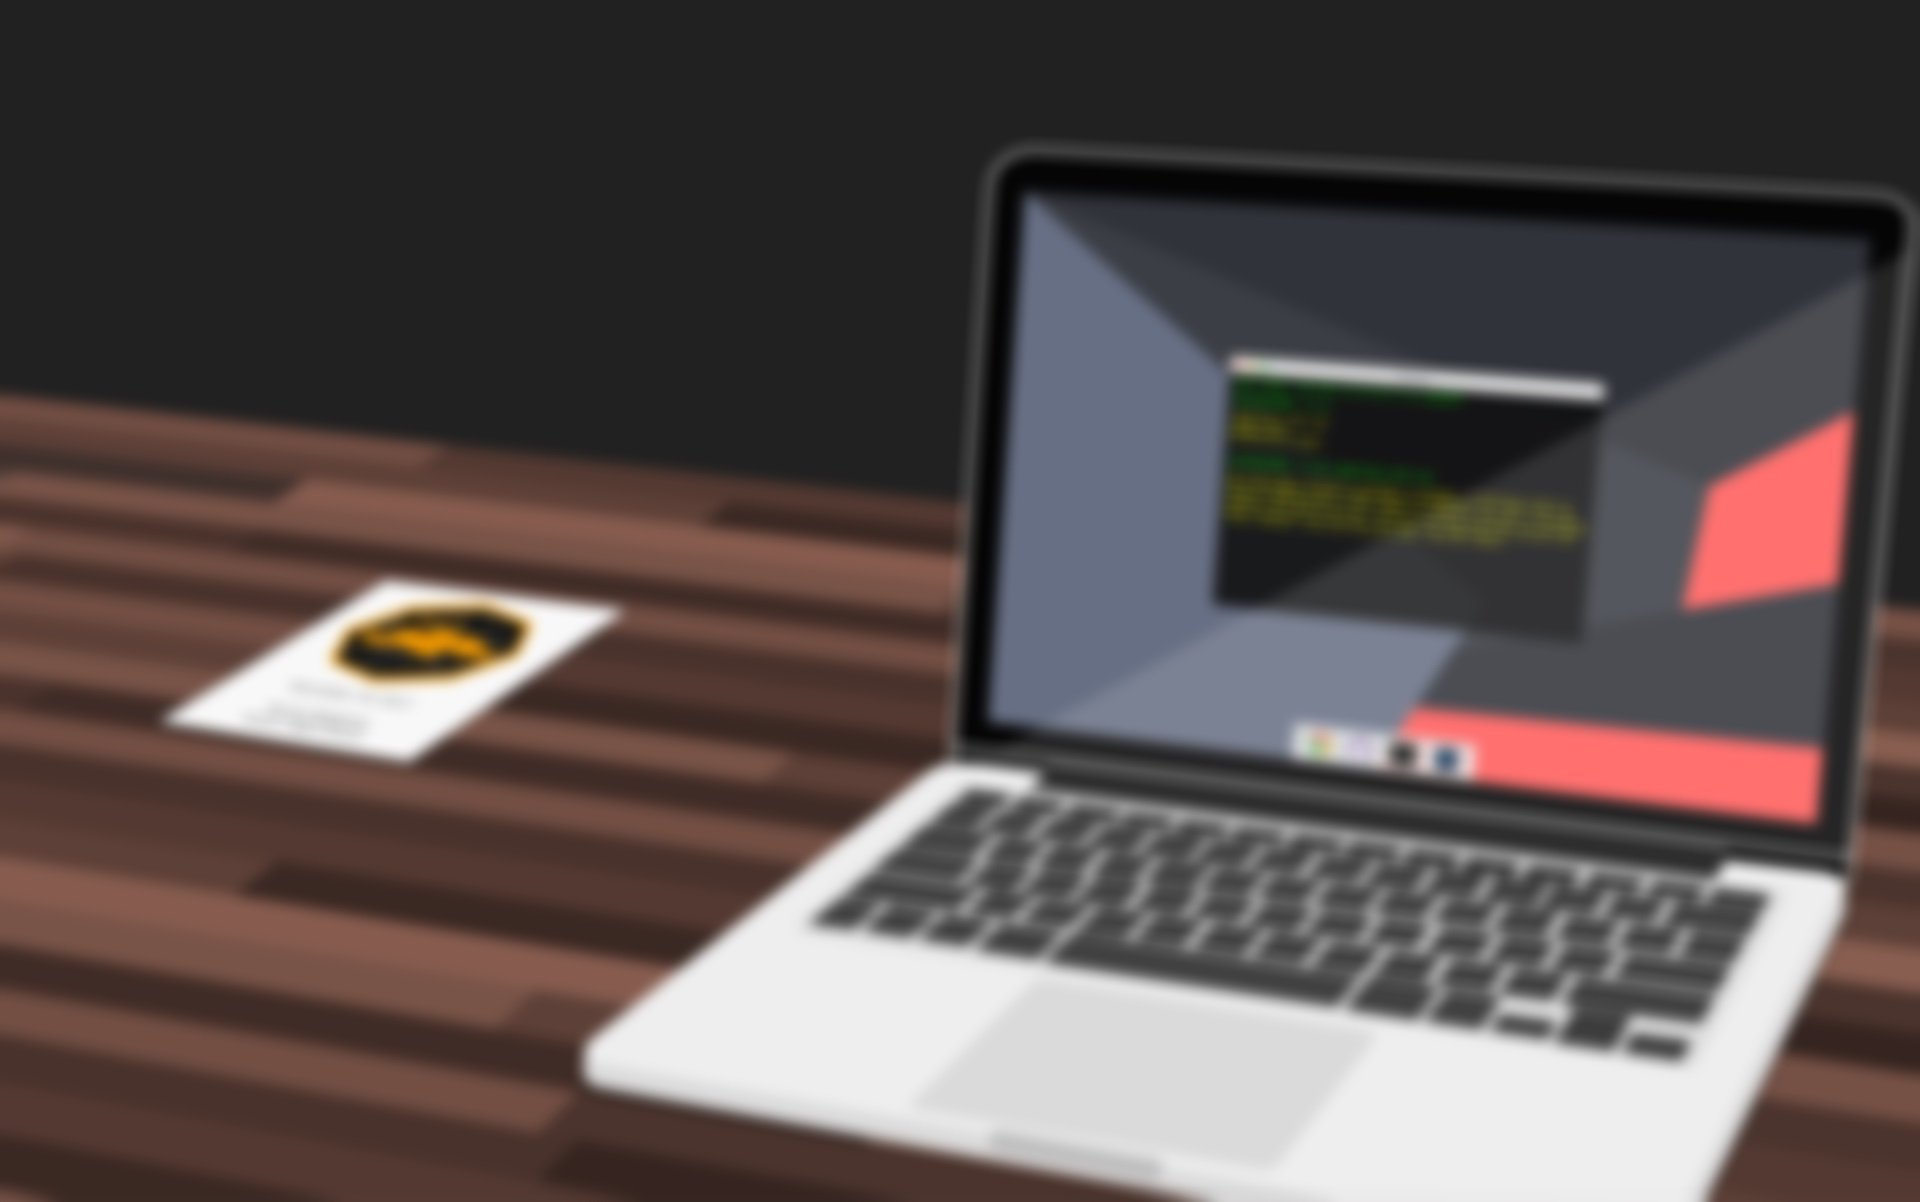
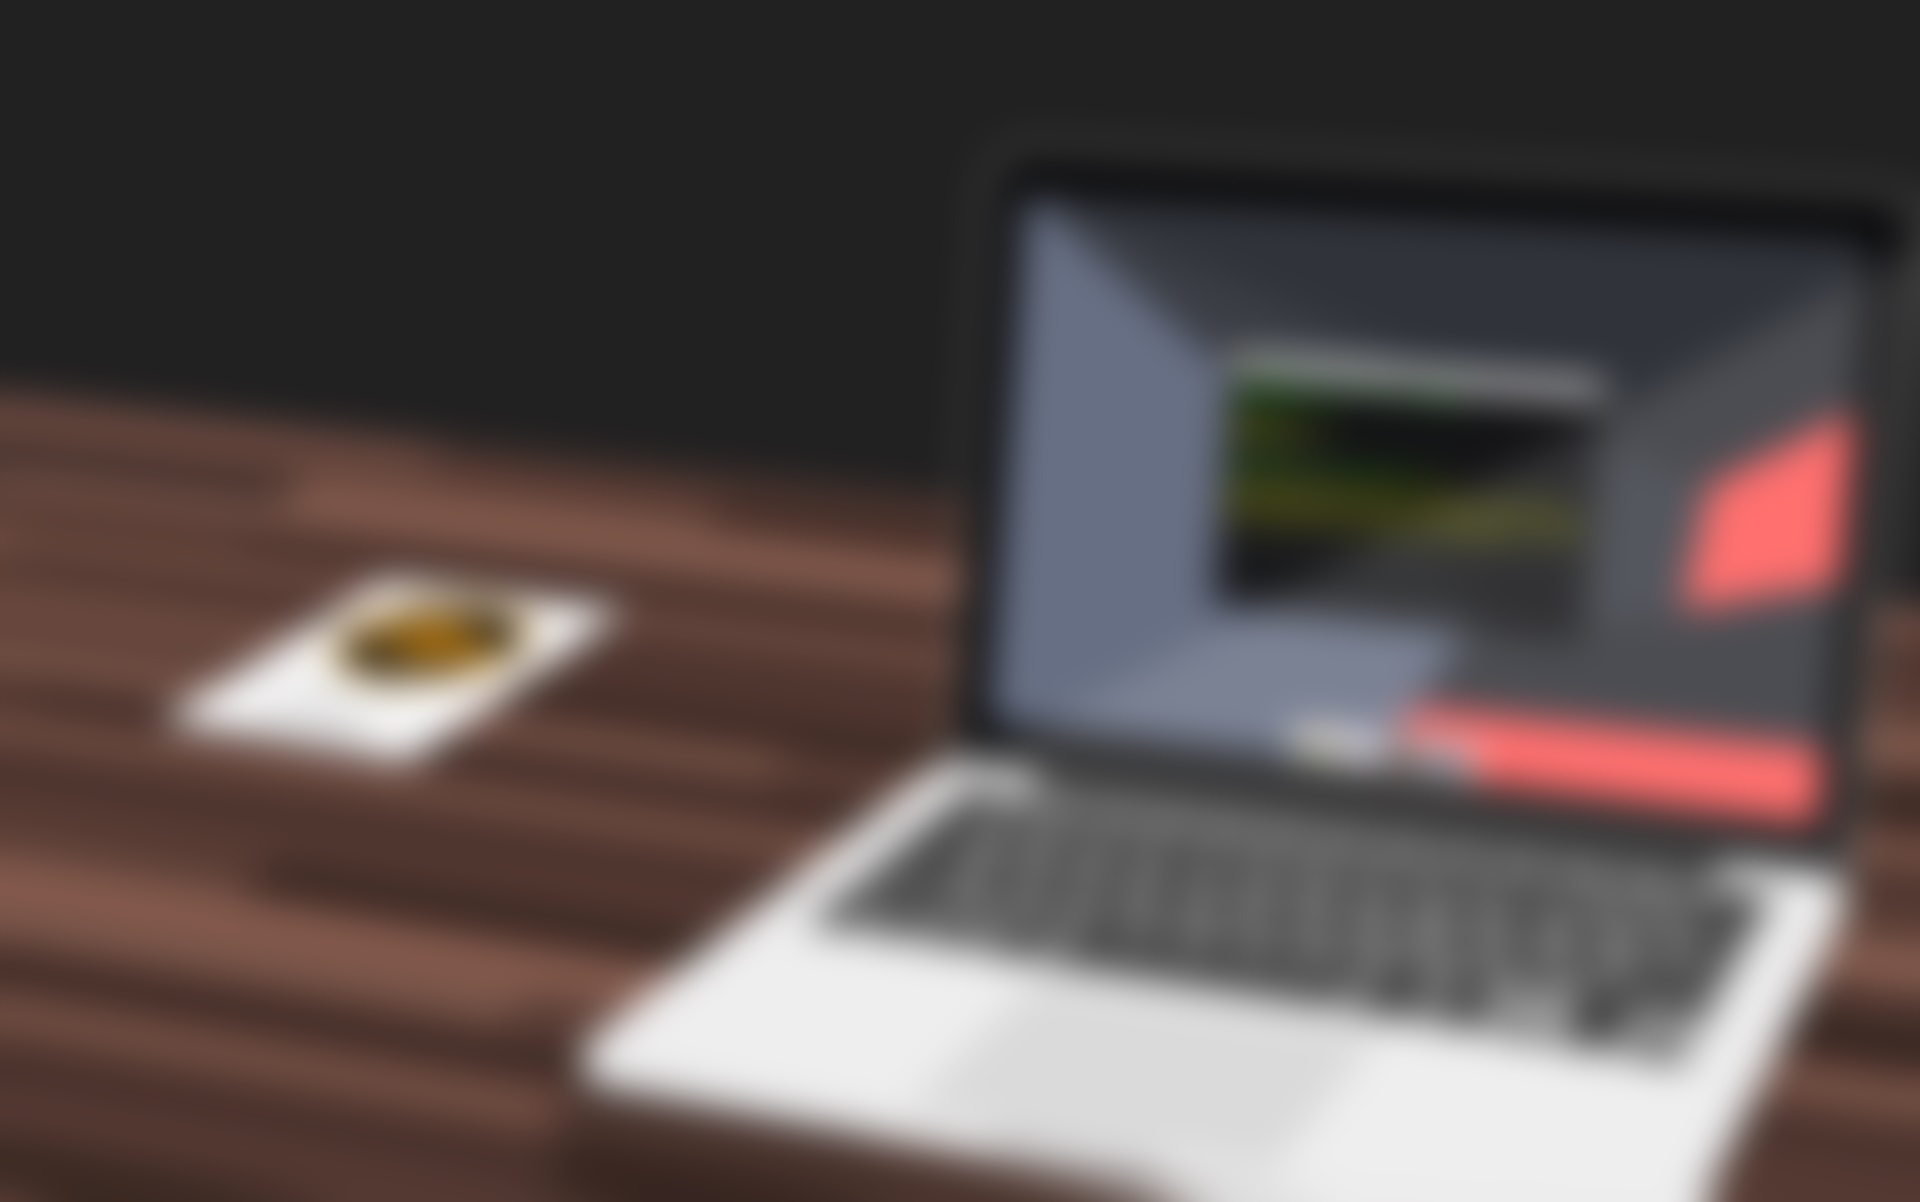
more blur + typo

diff --git a/index.html b/index.html
@@ -59,7 +59,7 @@
 	<div class="container-fluid text-center bg-home" id="home">
 		<div class="container-fluid text-center bg-home-text">
 			<h1>HackNA</h1>
-			<p><b>A high-school hackathon for the Greater Pittsburgh Area</b></p>
+			<p><b>A high school hackathon for the Greater Pittsburgh Area</b></p>
 			<a class="btn btn-warning" href="https://goo.gl/forms/x6iOkU71a8G8JEi63">SIGN UP</a>
 			<a class="btn btn-danger" href="https://goo.gl/forms/K0V0ocFAN8jM8G8q1">VOLUNTEER</a>
 			<a class="btn btn-primary" href="https://goo.gl/forms/hGhzzKANNkSvGji42">MENTOR / JUDGE</a>
